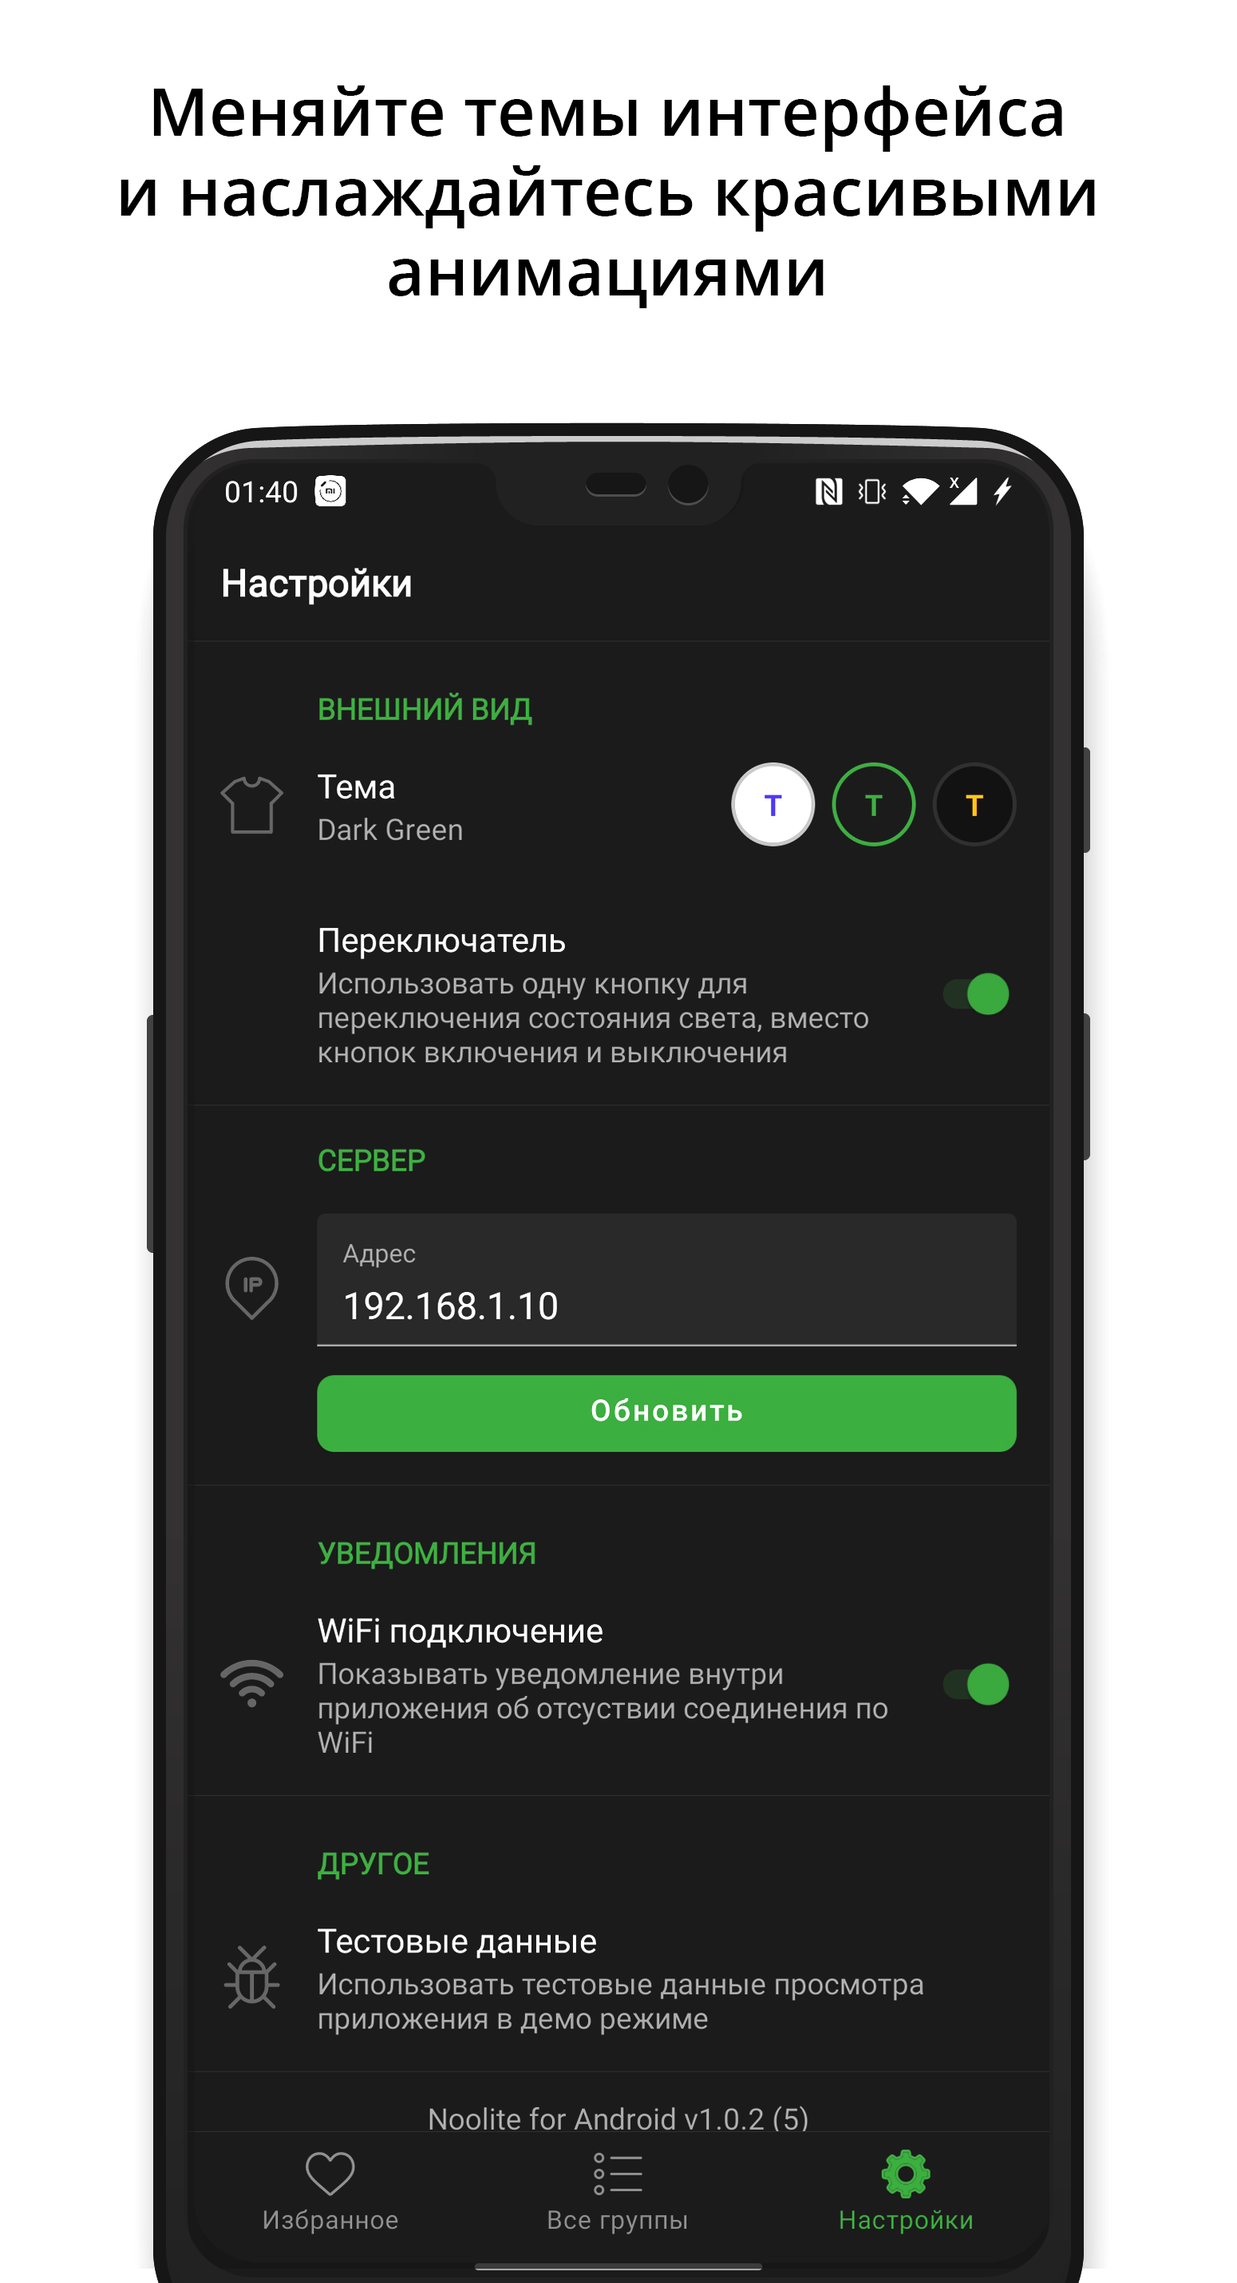
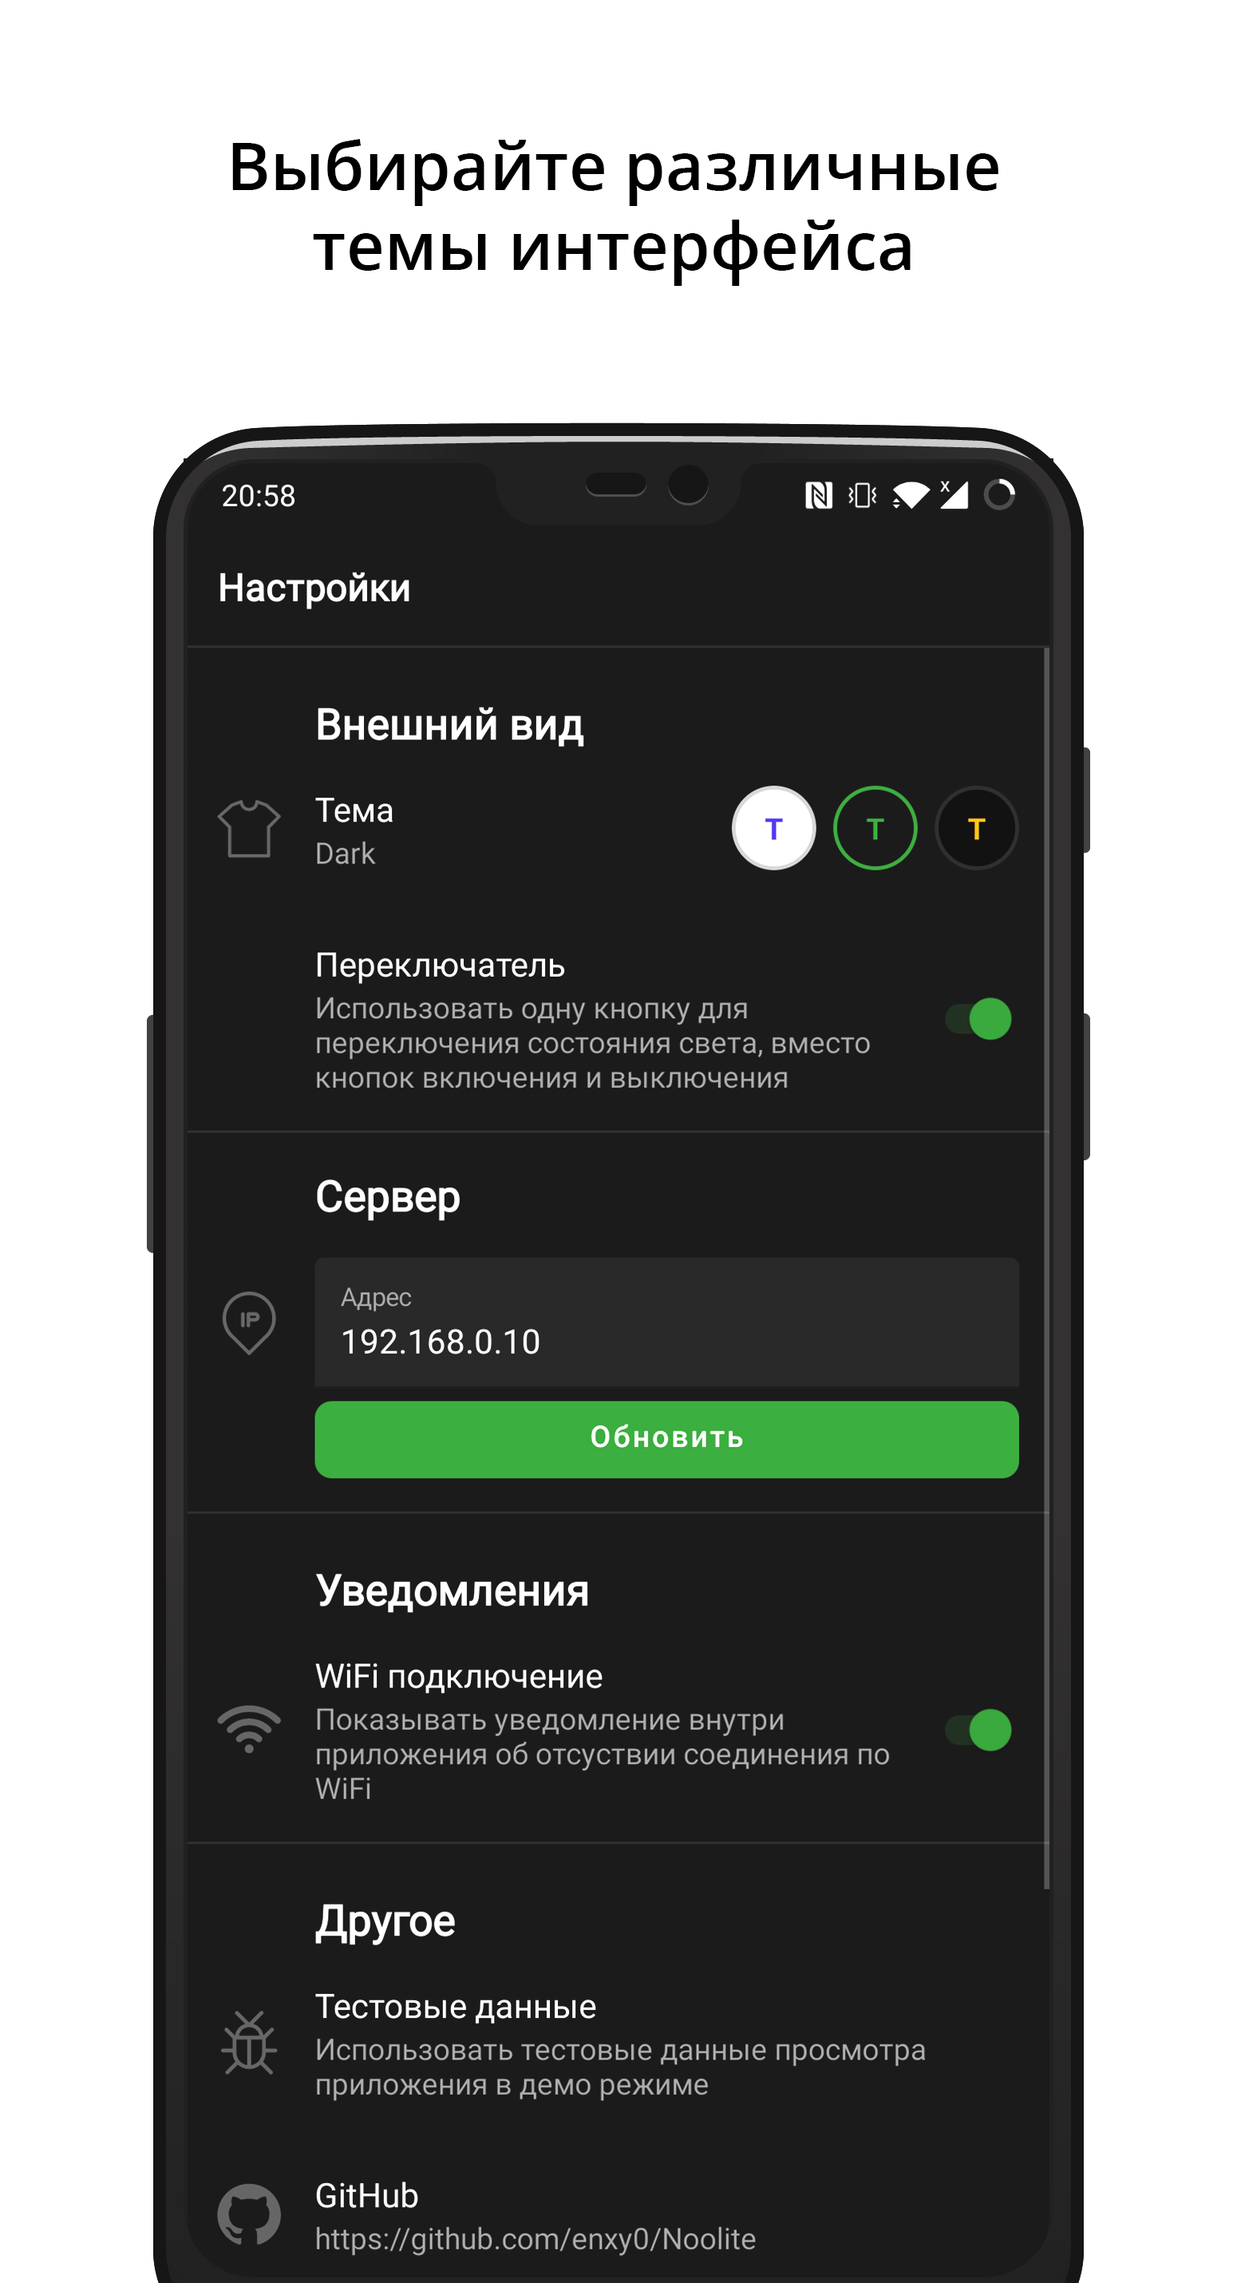
Update readme and screenshots

diff --git a/readme.md b/readme.md
@@ -1,44 +1,39 @@
-# Noolite (PR1132) - Kotlin Android App
+# Alterlite (для шлюза noolite PR-1132) - Kotlin Android App
 
-Noolite - Android приложение, являющееся альтернативным клиентом для Ethernet-шлюза PR1132 системы умного дома Noolite. В данном приложении я попытался сделать максимально удобный и приятный глазу интерфейс (чего как раз и не хватало в оригинальном приложении [Noolite](https://play.google.com/store/apps/details?id=com.noolite)).
+Alterlite - Android приложение, являющееся альтернативным клиентом для Ethernet-шлюза PR1132 системы умного дома [Noolite](https://play.google.com/store/apps/details?id=com.noolite). 
 
 **Что приложение умеет:**
-
-* Показывать группы и каналы.
-* Добавлять группу в избранное. При каждом запуске будет открываться выбранная вами группа.
-* Включать и выключать свет (вкл/выкл нагрузку).
-* Менять яркость подсветки.
-* Менять цвет подсветки, включать и выключать переливание из одного цвета в другой.
-* Подгружать все группы и каналы с сервера.
-* Показывать ошибку, если телефон не подключен к WiFi.
+* Показывать группы и каналы
+* Добавлять группу в избранное. При каждом запуске будет открываться выбранная вами группа
+* Включать и выключать свет (вкл/выкл нагрузку)
+* Менять яркость подсветки
+* Менять цвет подсветки, включать и выключать переливание из одного цвета в другой
+* Подгружать все группы и каналы с сервера
+* Создавать и выполнять пользовательские сценарии
+* Показывать ошибку, если телефон не подключен к WiFi
 * Менять темы интерфейса (White Blue, Dark Green and Black Amber)
 
-**Что приложение не умеет:**
-* Подгружать все группы и каналы с сервера, используя аутентификацию.
-* Обновлять и отображать данные с сенсоров.
- 
 **Приложение написано на Kotlin при помощи:**
 * Model-View-ViewModel (MVVM) architecture pattern
-* [Retrofit](https://github.com/square/retrofit) (2.7.0)
+* [Retrofit](https://github.com/square/retrofit) (2.8.1)
 * [Kotlin Coroutines](https://github.com/Kotlin/kotlinx.coroutines) (1.3.3)
-* [Kotlin Coroutines Adapter](https://github.com/JakeWharton/retrofit2-kotlin-coroutines-adapter) (0.9.2)
-* [Dagger 2](https://github.com/google/dagger) (2.20)
+* [Dagger 2](https://github.com/google/dagger) (2.27)
 * [Gson](https://github.com/google/gson) (2.8.6)
-* [Android Architecture Components: ViewModel (1.0.0-rc03)](https://developer.android.com/topic/libraries/architecture/viewmodel)
+* [Android Architecture Components: ViewModel](https://developer.android.com/topic/libraries/architecture/viewmodel) (2.2.0)
 * [Android KTX](https://developer.android.com/kotlin/ktx)
 
 # Скриншоты
-<img  src="/extras/screenshot_all_groups.png?raw=true"  width=33% /> <img  src="/extras/screenshot_chosen_room.png?raw=true"  width=33% /> <img  src="/extras/screenshot_settings.png?raw=true"  width=33% />
+<img  src="https://raw.githubusercontent.com/enxy0/Noolite/development/extras/screenshot_main.png?raw=true"  width=24% /> <img  src="https://raw.githubusercontent.com/enxy0/Noolite/development/extras/screenshot_channel.png?raw=true"  width=24% /> <img  src="https://raw.githubusercontent.com/enxy0/Noolite/development/extras/screenshot_script.png?raw=true" width=24% /> <img  src="https://raw.githubusercontent.com/enxy0/Noolite/development/extras/screenshot_settings.png?raw=true" width=24% />
 
 # Как использовать данный проект
 
 Вы можете найти готовый APK файл во вкладке `Releases`.
 
-Для автоматической загрузки списка групп при первом запуске приложения, перейдите в `app/src/main/java/com/enxy/noolite/core/platform/FileManager.kt` и измените стандартный IP адрес:
+Для автоматической загрузки списка групп при первом запуске приложения, перейдите в `app/src/main/java/com/enxy/noolite/core/utils/Constants.kt` и измените стандартный IP адрес:
 
 ```kotlin
 ...
-const val DEFAULT_IP_ADDRESS_VALUE = "ВАШ_IP_АДРЕС" // например "192.168.0.168"
+const val DEFAULT_IP_ADDRESS_VALUE = "ВАШ_IP_АДРЕС" // например "192.168.0.10"
 ...
 ```
 
@@ -80,34 +75,34 @@ const val DEFAULT_IP_ADDRESS_VALUE = "ВАШ_IP_АДРЕС" // например 
 
 `http://192.168.0.168/api.htm?ch=2&cmd=6&fm=3&br=50` (Установить яркость подсветки в 50% на канале №3)
 
-Полную и официальную документацию можно найти тут: [PR1132.pdf](/extras/PR1132.pdf)
+Полную и официальную документацию можно найти тут: [PR1132.pdf](https://github.com/enxy0/Noolite/raw/master/extras/PR1132.pdf)
 
 # Иконки
 
 Выражаю благодарность следующим авторам:
 
-<img  src="https://image.flaticon.com/icons/svg/606/606795.svg"  width=30> Icon made by <a  href="https://www.flaticon.com/authors/good-ware"  title="Good Ware">Good Ware</a> from <a  href="https://www.flaticon.com/"  title="Flaticon">www.flaticon.com</a> is licensed by <a  href="http://creativecommons.org/licenses/by/3.0/"  title="Creative Commons BY 3.0"  target="_blank">CC 3.0 BY</a>
+<img  src="https://image.flaticon.com/icons/svg/606/606795.svg"  width=3%> Icon made by <a  href="https://www.flaticon.com/authors/good-ware"  title="Good Ware">Good Ware</a> from <a  href="https://www.flaticon.com/"  title="Flaticon">www.flaticon.com</a> is licensed by <a  href="http://creativecommons.org/licenses/by/3.0/"  title="Creative Commons BY 3.0"  target="_blank">CC 3.0 BY</a>
 
-<img  src="https://image.flaticon.com/icons/svg/865/865140.svg"  width=30> Icon made by <a  href="https://www.flaticon.com/authors/good-ware"  title="Good Ware">Good Ware</a> from <a  href="https://www.flaticon.com/"  title="Flaticon">www.flaticon.com</a> is licensed by <a  href="http://creativecommons.org/licenses/by/3.0/"  title="Creative Commons BY 3.0"  target="_blank">CC 3.0 BY</a>
+<img  src="https://image.flaticon.com/icons/svg/865/865140.svg"  width=3%> Icon made by <a  href="https://www.flaticon.com/authors/good-ware"  title="Good Ware">Good Ware</a> from <a  href="https://www.flaticon.com/"  title="Flaticon">www.flaticon.com</a> is licensed by <a  href="http://creativecommons.org/licenses/by/3.0/"  title="Creative Commons BY 3.0"  target="_blank">CC 3.0 BY</a>
 
-<img  src="https://image.flaticon.com/icons/svg/339/339853.svg"  width=30> Icon made by <a  href="https://www.flaticon.com/authors/cursor-creative"  title="Cursor Creative">Cursor Creative</a> from <a  href="https://www.flaticon.com/"  title="Flaticon">www.flaticon.com</a> is licensed by <a  href="http://creativecommons.org/licenses/by/3.0/"  title="Creative Commons BY 3.0"  target="_blank">CC 3.0 BY</a>
+<img  src="https://image.flaticon.com/icons/svg/339/339853.svg"  width=3%> Icon made by <a  href="https://www.flaticon.com/authors/cursor-creative"  title="Cursor Creative">Cursor Creative</a> from <a  href="https://www.flaticon.com/"  title="Flaticon">www.flaticon.com</a> is licensed by <a  href="http://creativecommons.org/licenses/by/3.0/"  title="Creative Commons BY 3.0"  target="_blank">CC 3.0 BY</a>
 
-<img  src="https://image.flaticon.com/icons/svg/446/446108.svg"  width=30> Icon made by <a  href="https://www.flaticon.com/authors/freepik"  title="Freepik">Freepik</a> from <a  href="https://www.flaticon.com/"  title="Flaticon">www.flaticon.com</a> is licensed by <a  href="http://creativecommons.org/licenses/by/3.0/"  title="Creative Commons BY 3.0"  target="_blank">CC 3.0 BY</a>
+<img  src="https://image.flaticon.com/icons/svg/446/446108.svg"  width=3%> Icon made by <a  href="https://www.flaticon.com/authors/freepik"  title="Freepik">Freepik</a> from <a  href="https://www.flaticon.com/"  title="Flaticon">www.flaticon.com</a> is licensed by <a  href="http://creativecommons.org/licenses/by/3.0/"  title="Creative Commons BY 3.0"  target="_blank">CC 3.0 BY</a>
 
-<img  src="https://image.flaticon.com/icons/svg/863/863684.svg"  width=30> Icon made by <a  href="https://www.flaticon.com/authors/good-ware"  title="Good Ware">Good Ware</a> from <a  href="https://www.flaticon.com/"  title="Flaticon">www.flaticon.com</a> is licensed by <a  href="http://creativecommons.org/licenses/by/3.0/"  title="Creative Commons BY 3.0"  target="_blank">CC 3.0 BY</a>
+<img  src="https://image.flaticon.com/icons/svg/863/863684.svg"  width=3%> Icon made by <a  href="https://www.flaticon.com/authors/good-ware"  title="Good Ware">Good Ware</a> from <a  href="https://www.flaticon.com/"  title="Flaticon">www.flaticon.com</a> is licensed by <a  href="http://creativecommons.org/licenses/by/3.0/"  title="Creative Commons BY 3.0"  target="_blank">CC 3.0 BY</a>
 
-<img  src="https://image.flaticon.com/icons/svg/126/126479.svg"  width=30> Icon made by <a  href="https://www.flaticon.com/authors/gregor-cresnar"  title="Gregor Cresnar">Gregor Cresnar</a> from <a  href="https://www.flaticon.com/"  title="Flaticon">www.flaticon.com</a> is licensed by <a  href="http://creativecommons.org/licenses/by/3.0/"  title="Creative Commons BY 3.0"  target="_blank">CC 3.0 BY</a>
+<img  src="https://image.flaticon.com/icons/svg/126/126479.svg"  width=3%> Icon made by <a  href="https://www.flaticon.com/authors/gregor-cresnar"  title="Gregor Cresnar">Gregor Cresnar</a> from <a  href="https://www.flaticon.com/"  title="Flaticon">www.flaticon.com</a> is licensed by <a  href="http://creativecommons.org/licenses/by/3.0/"  title="Creative Commons BY 3.0"  target="_blank">CC 3.0 BY</a>
 
-<img  src="https://image.flaticon.com/icons/svg/1077/1077035.svg"  width=30> Icon made by <a  href="https://www.flaticon.com/authors/freepik"  title="Freepik">Freepik</a> from <a  href="https://www.flaticon.com/"  title="Flaticon">www.flaticon.com</a> is licensed by <a  href="http://creativecommons.org/licenses/by/3.0/"  title="Creative Commons BY 3.0"  target="_blank">CC 3.0 BY</a>
+<img  src="https://image.flaticon.com/icons/svg/1077/1077035.svg"  width=3%> Icon made by <a  href="https://www.flaticon.com/authors/freepik"  title="Freepik">Freepik</a> from <a  href="https://www.flaticon.com/"  title="Flaticon">www.flaticon.com</a> is licensed by <a  href="http://creativecommons.org/licenses/by/3.0/"  title="Creative Commons BY 3.0"  target="_blank">CC 3.0 BY</a>
 
-<img  src="https://image.flaticon.com/icons/svg/159/159841.svg"  width=30> Icon made by <a  href="https://www.flaticon.com/authors/gregor-cresnar"  title="Gregor Cresnar">Gregor Cresnar</a> from <a  href="https://www.flaticon.com/"  title="Flaticon">www.flaticon.com</a> is licensed by <a  href="http://creativecommons.org/licenses/by/3.0/"  title="Creative Commons BY 3.0"  target="_blank">CC 3.0 BY</a>
+<img  src="https://image.flaticon.com/icons/svg/159/159841.svg"  width=3%> Icon made by <a  href="https://www.flaticon.com/authors/gregor-cresnar"  title="Gregor Cresnar">Gregor Cresnar</a> from <a  href="https://www.flaticon.com/"  title="Flaticon">www.flaticon.com</a> is licensed by <a  href="http://creativecommons.org/licenses/by/3.0/"  title="Creative Commons BY 3.0"  target="_blank">CC 3.0 BY</a>
 
-<img  src="https://image.flaticon.com/icons/svg/1451/1451553.svg"  width=30> Icon made by <a  href="https://www.flaticon.com/authors/freepik"  title="Freepik">Freepik</a> from <a  href="https://www.flaticon.com/"  title="Flaticon">www.flaticon.com</a> is licensed by <a  href="http://creativecommons.org/licenses/by/3.0/"  title="Creative Commons BY 3.0"  target="_blank">CC 3.0 BY</a>
+<img  src="https://image.flaticon.com/icons/svg/1451/1451553.svg"  width=3%> Icon made by <a  href="https://www.flaticon.com/authors/freepik"  title="Freepik">Freepik</a> from <a  href="https://www.flaticon.com/"  title="Flaticon">www.flaticon.com</a> is licensed by <a  href="http://creativecommons.org/licenses/by/3.0/"  title="Creative Commons BY 3.0"  target="_blank">CC 3.0 BY</a>
 
-<img  src="https://image.flaticon.com/icons/svg/126/126472.svg"  width=30> Icon made by <a  href="https://www.flaticon.com/authors/gregor-cresnar"  title="Gregor Cresnar">Gregor Cresnar</a> from <a  href="https://www.flaticon.com/"  title="Flaticon">www.flaticon.com</a> is licensed by <a  href="http://creativecommons.org/licenses/by/3.0/"  title="Creative Commons BY 3.0"  target="_blank">CC 3.0 BY</a>
+<img  src="https://image.flaticon.com/icons/svg/126/126472.svg"  width=3%> Icon made by <a  href="https://www.flaticon.com/authors/gregor-cresnar"  title="Gregor Cresnar">Gregor Cresnar</a> from <a  href="https://www.flaticon.com/"  title="Flaticon">www.flaticon.com</a> is licensed by <a  href="http://creativecommons.org/licenses/by/3.0/"  title="Creative Commons BY 3.0"  target="_blank">CC 3.0 BY</a>
 
-<img  src="https://image.flaticon.com/icons/png/512/0/375.png"  width=30> Icon made by <a href="https://www.flaticon.com/authors/freepik" title="Freepik">Freepik</a> from <a href="https://www.flaticon.com/" title="Flaticon">www.flaticon.com</a>
+<img  src="https://image.flaticon.com/icons/png/512/0/375.png"  width=3%> Icon made by <a href="https://www.flaticon.com/authors/freepik" title="Freepik">Freepik</a> from <a href="https://www.flaticon.com/" title="Flaticon">www.flaticon.com</a>
 
-<img  src="https://image.flaticon.com/icons/png/512/159/159599.png"  width=30> Icon made by <a href="https://www.flaticon.com/authors/gregor-cresnar" title="Gregor Cresnar">Gregor Cresnar</a> from <a href="https://www.flaticon.com/" title="Flaticon">www.flaticon.com</a>
+<img  src="https://image.flaticon.com/icons/png/512/159/159599.png"  width=3%> Icon made by <a href="https://www.flaticon.com/authors/gregor-cresnar" title="Gregor Cresnar">Gregor Cresnar</a> from <a href="https://www.flaticon.com/" title="Flaticon">www.flaticon.com</a>
 
-<img  src="https://image.flaticon.com/icons/png/512/112/112489.png"  width=30> Icon made by <a href="https://www.flaticon.com/authors/freepik" title="Freepik">Freepik</a> from <a href="https://www.flaticon.com/" title="Flaticon">www.flaticon.com</a>
+<img  src="https://image.flaticon.com/icons/png/512/112/112489.png"  width=3%> Icon made by <a href="https://www.flaticon.com/authors/freepik" title="Freepik">Freepik</a> from <a href="https://www.flaticon.com/" title="Flaticon">www.flaticon.com</a>
